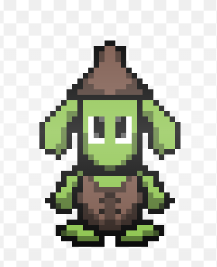
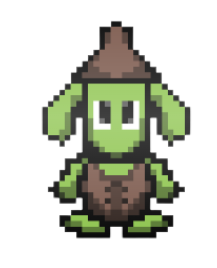
remove background of goblin and updated size

diff --git a/orb.py b/orb.py
@@ -47,7 +47,7 @@ class Orbs(object):
 
 
         orb = Drawable(position, "orb.png")
-        orb.image = pygame.transform.scale(orb.image, (20, 38 ))
+        orb.image = pygame.transform.scale(orb.image, (32, 32))
 
         self.orbs.append(orb)  
         self.positions.append(position)
